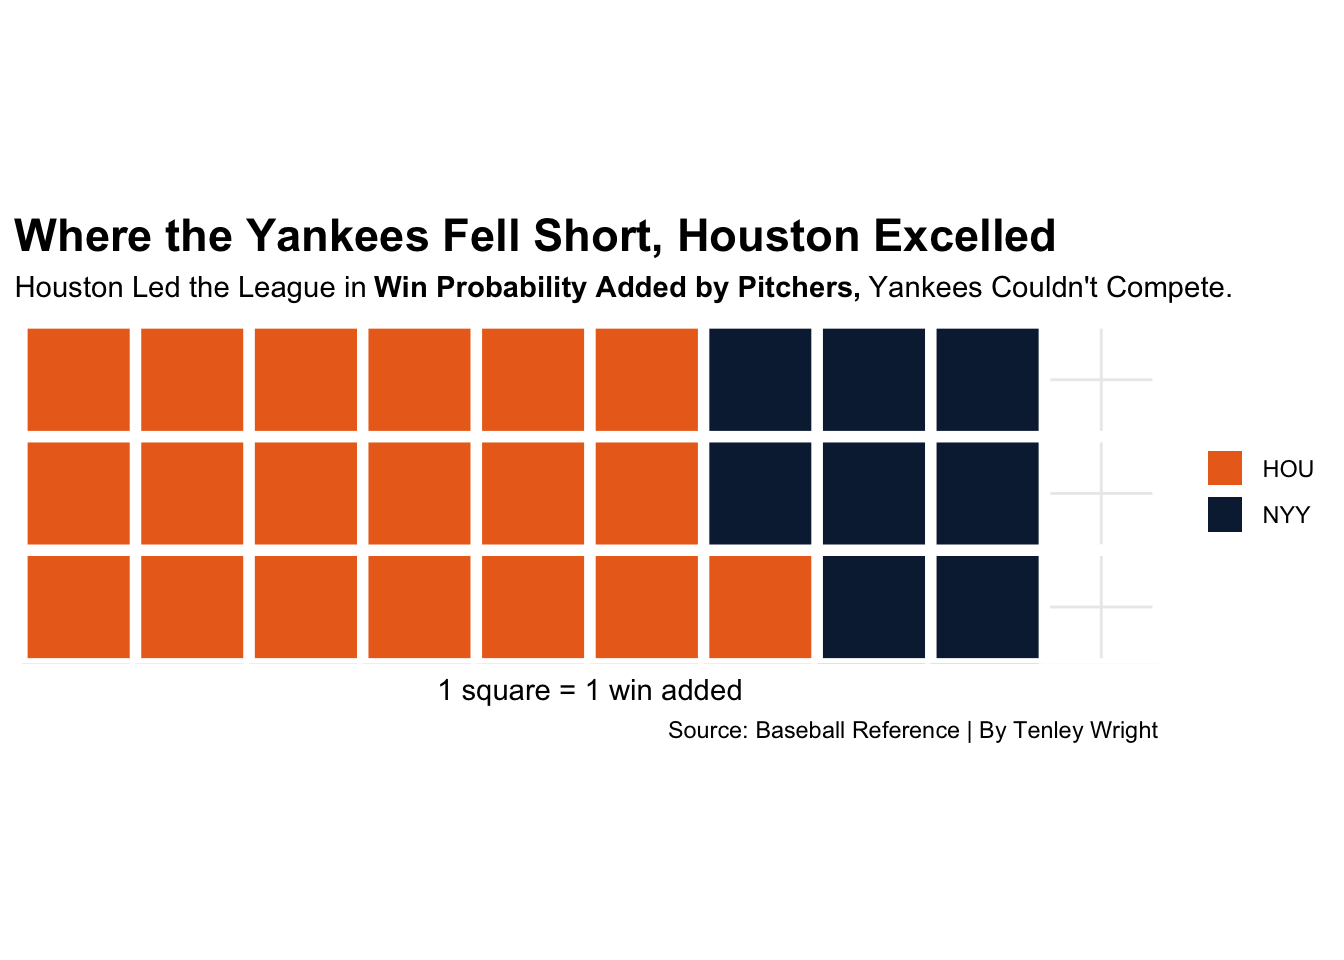
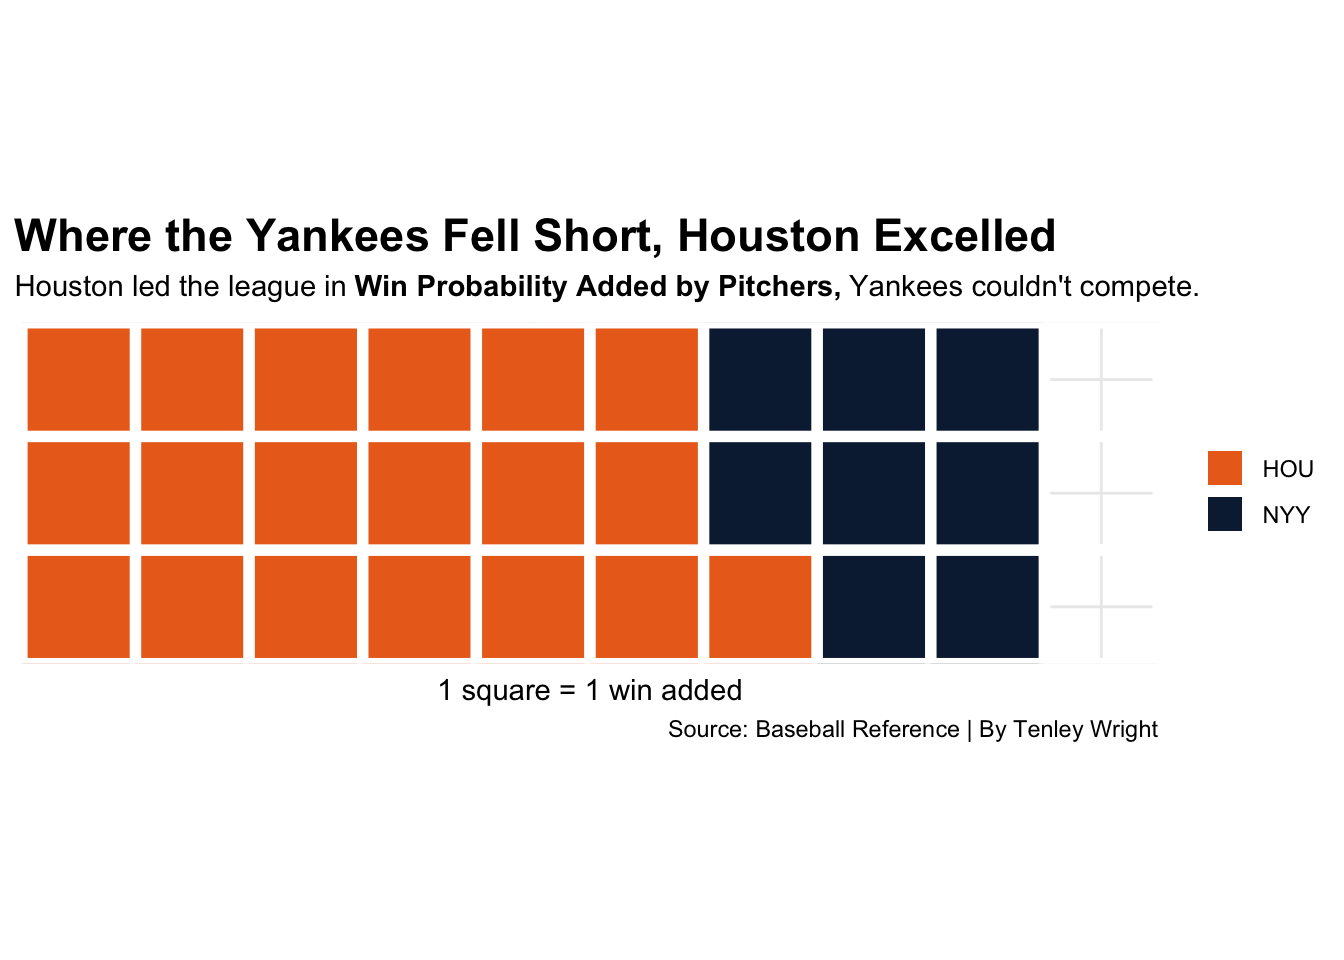
hopefully final commit

Changed region(s): [[0.0312, 0.2812, 0.9062, 0.3125], [0.5, 0.75, 0.8438, 0.7812]]

diff --git a/posts/could-the-2019-yankees-end-the-drought/index.html b/posts/could-the-2019-yankees-end-the-drought/index.html
@@ -213,7 +213,7 @@ code span.wa { color: #60a0b0; font-weight: bold; font-style: italic; } /* Warni
 
 
 
-<p>In 2013 my brother was diagnosed with a terrible mental disorder called being a Red Sox fan and at the time wasn’t too fond of letting me watch the games with him. As a result, I became a Yankees fan in perhaps the most New York way possible…</p>
+<p>In 2013 my brother was diagnosed with a terrible mental disorder called being a Red Sox fan. At the time, he wasn’t too fond of letting me watch the games with him. As a result, I became a Yankees fan in perhaps the most New York way possible…</p>
 <p>Out of spite.</p>
 <p>In the early years of my fandom, there was a contagious buzz about the ‘Chase for 28’ and the Yank’s pursuit of another Commissioner’s Trophy. I had seen just about every documentary, video clip and newspaper article available on the 2009 championship team and was convinced that it wouldn’t be long before the Yankees would once again be World Series Champions.</p>
 <p>What I didn’t know, though, was that the 2009 championship would mark the beginning of perhaps the worst World Series drought in franchise history. It’s been 13 years since the Yankees have reached the World Series and in that time 15 of the other 29 teams have made an appearance in the Fall Classic. There’s been years where the team has displayed legitimate championship potential, just to fall short in the Championship Series, continuing the seemingly endless cycle of disappointment that has plagued the Yankees fan base for over a decade.</p>
@@ -330,13 +330,13 @@ code span.wa { color: #60a0b0; font-weight: bold; font-style: italic; } /* Warni
 <span id="cb2-14"><a href="#cb2-14" aria-hidden="true" tabindex="-1"></a>  <span class="at">data=</span>NY2009, </span>
 <span id="cb2-15"><a href="#cb2-15" aria-hidden="true" tabindex="-1"></a>    <span class="fu">aes</span>(<span class="at">x=</span>ERA, <span class="at">y=</span>BAVG, <span class="at">size=</span> <span class="st">`</span><span class="at">W</span><span class="st">`</span>), </span>
 <span id="cb2-16"><a href="#cb2-16" aria-hidden="true" tabindex="-1"></a>    <span class="at">color=</span> <span class="st">"#EFB21E"</span>,</span>
-<span id="cb2-17"><a href="#cb2-17" aria-hidden="true" tabindex="-1"></a>     <span class="at">alpha=</span>.<span class="dv">3</span>) <span class="sc">+</span></span>
+<span id="cb2-17"><a href="#cb2-17" aria-hidden="true" tabindex="-1"></a>     <span class="at">alpha=</span>.<span class="dv">5</span>) <span class="sc">+</span></span>
 <span id="cb2-18"><a href="#cb2-18" aria-hidden="true" tabindex="-1"></a>  </span>
 <span id="cb2-19"><a href="#cb2-19" aria-hidden="true" tabindex="-1"></a>  <span class="fu">geom_point</span>(</span>
 <span id="cb2-20"><a href="#cb2-20" aria-hidden="true" tabindex="-1"></a>  <span class="at">data=</span>NY2019, </span>
 <span id="cb2-21"><a href="#cb2-21" aria-hidden="true" tabindex="-1"></a>    <span class="fu">aes</span>(<span class="at">x=</span>ERA, <span class="at">y=</span>BAVG, <span class="at">size=</span> <span class="st">`</span><span class="at">W</span><span class="st">`</span>), </span>
 <span id="cb2-22"><a href="#cb2-22" aria-hidden="true" tabindex="-1"></a>    <span class="at">color=</span> <span class="st">"#003087"</span>,</span>
-<span id="cb2-23"><a href="#cb2-23" aria-hidden="true" tabindex="-1"></a>     <span class="at">alpha=</span>.<span class="dv">3</span>) <span class="sc">+</span></span>
+<span id="cb2-23"><a href="#cb2-23" aria-hidden="true" tabindex="-1"></a>     <span class="at">alpha=</span>.<span class="dv">5</span>) <span class="sc">+</span></span>
 <span id="cb2-24"><a href="#cb2-24" aria-hidden="true" tabindex="-1"></a>  </span>
 <span id="cb2-25"><a href="#cb2-25" aria-hidden="true" tabindex="-1"></a>  <span class="fu">labs</span>(</span>
 <span id="cb2-26"><a href="#cb2-26" aria-hidden="true" tabindex="-1"></a>    <span class="at">x=</span><span class="st">"Earned Run Average (ERA)"</span>, </span>
@@ -361,7 +361,7 @@ code span.wa { color: #60a0b0; font-weight: bold; font-style: italic; } /* Warni
 </div>
 <p>But just like the ’09 championship team, they struggled with pitching. The 2019 Yankees had the worst Earned Run Average out of all the drought teams and walked the 2nd highest number of batters. When comparing the championship team to the drought team, 2009 finished with the 2nd highest ERA and walked the most batters.</p>
 <p>Major league baseball has changed a lot since 2009, though. A quality pitching staff in the 2000s could put more balls in play and runners on base but rely on a good fielding defense to back them up and a good offense to provide the insurance. And that’s what the 2009 Yankees had.</p>
-<p>In 2019, however, pitching had already transitioned into a much more important role. Instead of fielding, Pitchers became the first line of defense when it came to preventing runners from getting on base and scoring. Fewer balls were being put into play and strikeout rates were on the rise. The Yankees failed to transition into the new era. This became especially clear during the 2019 American League Championship Series, where the Yankees seemed to fall apart at the hands of the Houston Astros.</p>
+<p>In 2019, however, pitching had already transitioned into a much more important role. Instead of fielding, pitchers became the first line of defense when it came to preventing runners from getting on base and scoring. Fewer balls were being put into play and strikeout rates were on the rise. The Yankees failed to transition into the new era. This became especially clear during the 2019 American League Championship Series, where the Yankees seemed to fall apart at the hands of the Houston Astros.</p>
 <div class="cell">
 <details>
 <summary>Code</summary>
@@ -373,7 +373,7 @@ code span.wa { color: #60a0b0; font-weight: bold; font-style: italic; } /* Warni
 <span id="cb3-6"><a href="#cb3-6" aria-hidden="true" tabindex="-1"></a>        )<span class="sc">+</span></span>
 <span id="cb3-7"><a href="#cb3-7" aria-hidden="true" tabindex="-1"></a>  <span class="fu">labs</span>(</span>
 <span id="cb3-8"><a href="#cb3-8" aria-hidden="true" tabindex="-1"></a>    <span class="at">title=</span><span class="st">"Where the Yankees Fell Short, Houston Excelled"</span>, </span>
-<span id="cb3-9"><a href="#cb3-9" aria-hidden="true" tabindex="-1"></a>    <span class="at">subtitle=</span><span class="st">"Houston Led the League in"</span> <span class="sc">~</span> <span class="fu">bold</span>(<span class="st">"Win Probability Added by Pitchers,"</span>)<span class="sc">~</span><span class="st">"Yankees Couldn't Compete."</span>, </span>
+<span id="cb3-9"><a href="#cb3-9" aria-hidden="true" tabindex="-1"></a>    <span class="at">subtitle=</span><span class="st">"Houston led the league in"</span> <span class="sc">~</span> <span class="fu">bold</span>(<span class="st">"Win Probability Added by Pitchers,"</span>)<span class="sc">~</span><span class="st">"Yankees couldn't compete."</span>, </span>
 <span id="cb3-10"><a href="#cb3-10" aria-hidden="true" tabindex="-1"></a>    <span class="at">caption=</span><span class="st">"Source: Baseball Reference | By Tenley Wright"</span></span>
 <span id="cb3-11"><a href="#cb3-11" aria-hidden="true" tabindex="-1"></a>    ) <span class="sc">+</span></span>
 <span id="cb3-12"><a href="#cb3-12" aria-hidden="true" tabindex="-1"></a>  <span class="fu">theme_minimal</span>() <span class="sc">+</span> </span>
@@ -403,7 +403,7 @@ code span.wa { color: #60a0b0; font-weight: bold; font-style: italic; } /* Warni
 <span id="cb4-6"><a href="#cb4-6" aria-hidden="true" tabindex="-1"></a>        )<span class="sc">+</span></span>
 <span id="cb4-7"><a href="#cb4-7" aria-hidden="true" tabindex="-1"></a><span class="fu">labs</span>(</span>
 <span id="cb4-8"><a href="#cb4-8" aria-hidden="true" tabindex="-1"></a>    <span class="at">title=</span><span class="st">"The Yankees Never Stood a Chance Against Houston"</span>, </span>
-<span id="cb4-9"><a href="#cb4-9" aria-hidden="true" tabindex="-1"></a>    <span class="at">subtitle=</span><span class="st">"Astros Pitching Dominated the League in"</span> <span class="sc">~</span> <span class="fu">bold</span>(<span class="st">"Runs Saved with Runners on Base."</span>)<span class="sc">~</span><span class="st">""</span>,</span>
+<span id="cb4-9"><a href="#cb4-9" aria-hidden="true" tabindex="-1"></a>    <span class="at">subtitle=</span><span class="st">"Astros pitching dominated the league in"</span> <span class="sc">~</span> <span class="fu">bold</span>(<span class="st">"Runs Saved with Runners on Base."</span>)<span class="sc">~</span><span class="st">""</span>,</span>
 <span id="cb4-10"><a href="#cb4-10" aria-hidden="true" tabindex="-1"></a>    <span class="at">caption=</span><span class="st">"Source: Baseball Reference | By Tenley Wright"</span></span>
 <span id="cb4-11"><a href="#cb4-11" aria-hidden="true" tabindex="-1"></a>     )<span class="sc">+</span></span>
 <span id="cb4-12"><a href="#cb4-12" aria-hidden="true" tabindex="-1"></a>  <span class="fu">theme_minimal</span>() <span class="sc">+</span> </span>

diff --git a/index.html b/index.html
@@ -171,7 +171,7 @@ ul.task-list li input[type="checkbox"] {
 
 <div class="quarto-listing quarto-listing-container-default" id="listing-listing">
 <div class="list quarto-listing-default">
-<div class="quarto-post image-right" data-index="0" data-categories="Baseball,Code,Yankees" data-listing-date-sort="1683435600000" data-listing-file-modified-sort="1683394111500" data-listing-reading-time-sort="7.445">
+<div class="quarto-post image-right" data-index="0" data-categories="Baseball,Code,Yankees" data-listing-date-sort="1683435600000" data-listing-file-modified-sort="1683415008985" data-listing-reading-time-sort="7.445">
 <div class="thumbnail">
 <p><a href="./posts/could-the-2019-yankees-end-the-drought/index.html"> <img src="./posts/could-the-2019-yankees-end-the-drought/image.png" class="thumnail-image"> </a></p>
 </div>
